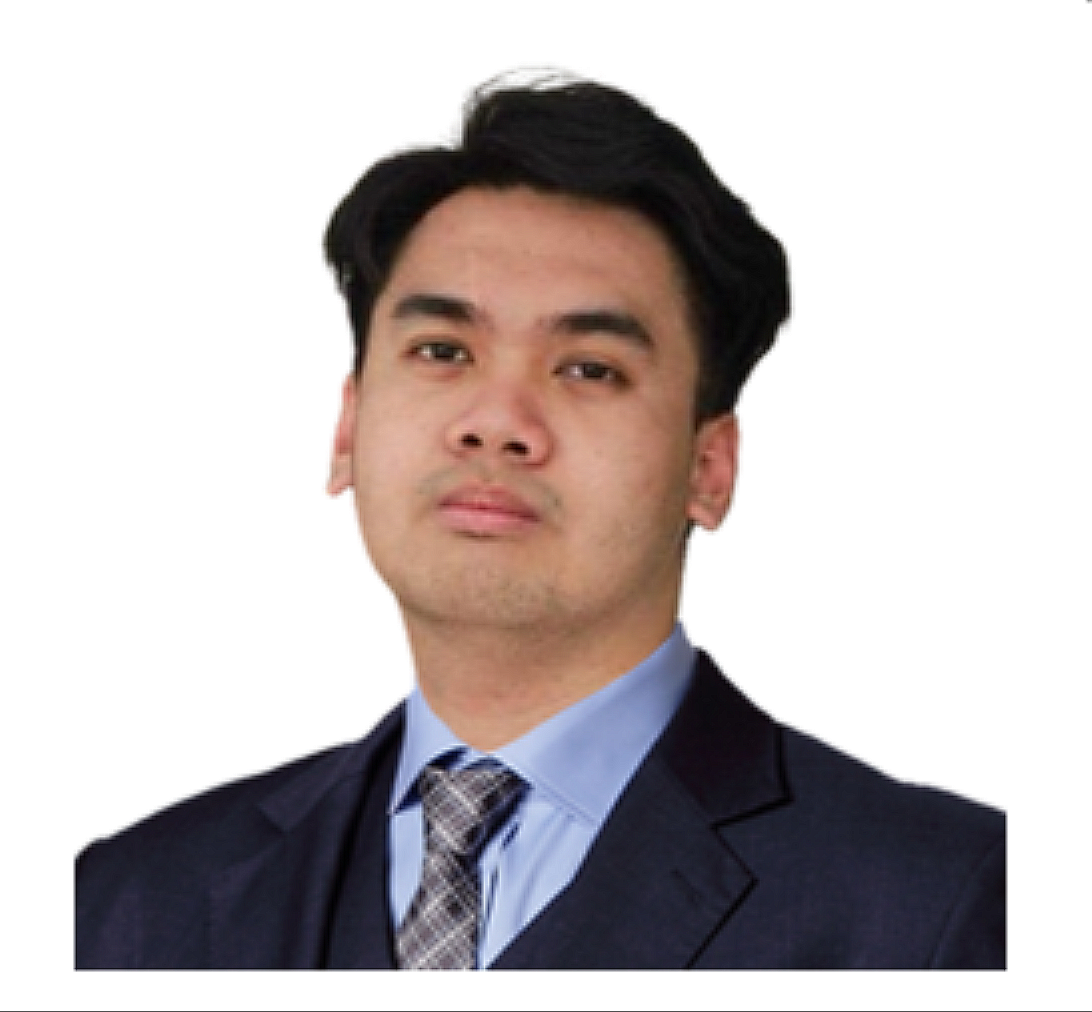
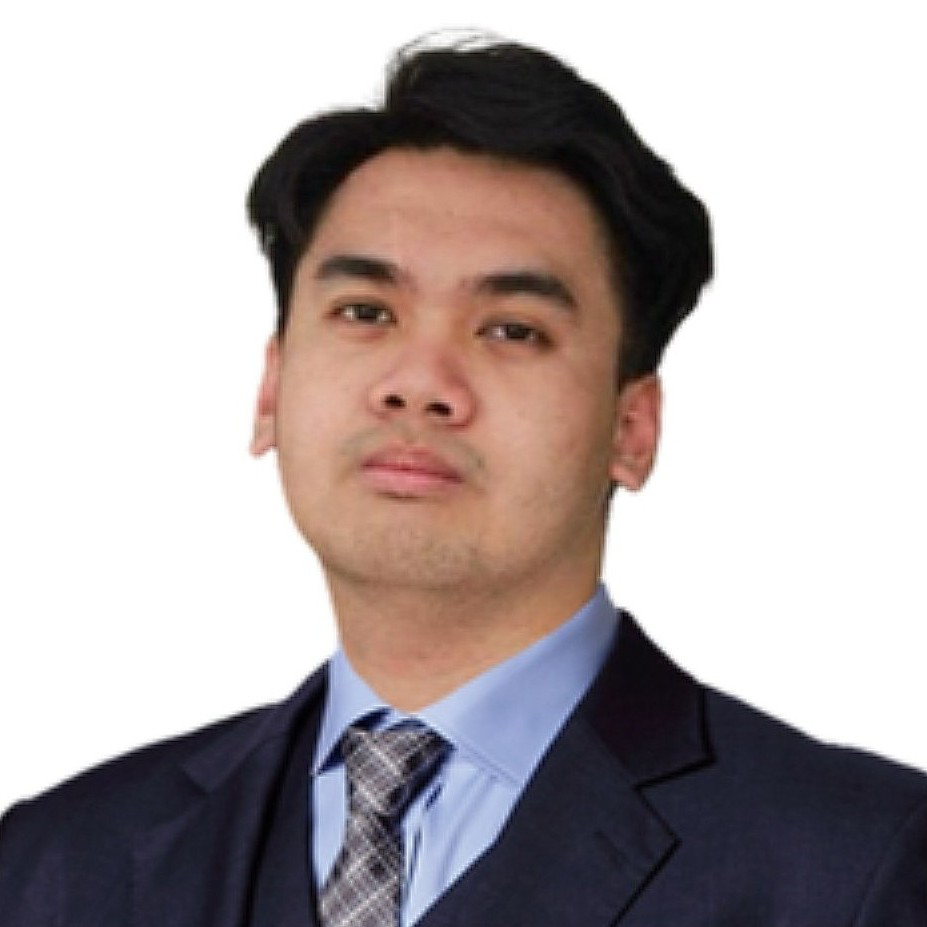
added some animation in image

diff --git a/components/navbar.tsx b/components/navbar.tsx
@@ -78,19 +78,20 @@ export default function Navbar() {
         >
           <div className="relative inline-block">
             <div className="absolute rounded-md inset-0 bg-customColors-bloodRed dark:bg-customColors-brightTurquoise transition-transform duration-300 group-hover:translate-x-1 group-hover:translate-y-1" />
-            <Link
-              href={"/resume/Bain Cruz Resume.pdf"}
-              target="_blank"
-              rel="noopener noreferrer"
-            >
-              <Button
-                variant="outline"
-                className="relative group border-customColors-bloodRed dark:border-customColors-brightTurquoise text-customColors-bloodRed dark:text-customColors-brightTurquoise bg-customColors-pastelWhite dark:bg-customColors-woodSmoke hover:bg-customColors-pastelWhite dark:hover:bg-customColors-woodSmoke hover:text-customColors-bloodRed dark:hover:text-customColors-brightTurquoise
+
+            <Button
+              variant="outline"
+              className="relative group border-customColors-bloodRed dark:border-customColors-brightTurquoise text-customColors-bloodRed dark:text-customColors-brightTurquoise bg-customColors-pastelWhite dark:bg-customColors-woodSmoke hover:bg-customColors-pastelWhite dark:hover:bg-customColors-woodSmoke hover:text-customColors-bloodRed dark:hover:text-customColors-brightTurquoise
             transition-all duration-300 transform hover:-translate-x-1 hover:-translate-y-1"
+            >
+              <Link
+                href={"/resume/Bain Cruz Resume.pdf"}
+                target="_blank"
+                rel="noopener noreferrer"
               >
                 Resume
-              </Button>
-            </Link>
+              </Link>
+            </Button>
           </div>
         </motion.div>
       </nav>
@@ -130,19 +131,20 @@ export default function Navbar() {
               ))}
               <div className="relative inline-block text-lg mt-6 w-full">
                 <div className="absolute h-12 rounded-md inset-0 bg-customColors-bloodRed dark:bg-customColors-brightTurquoise transition-transform duration-300 group-hover:translate-x-1 group-hover:translate-y-1" />
-                <Link
-                  href={"/resume/Bain Cruz Resume.pdf"}
-                  target="_blank"
-                  rel="noopener noreferrer"
-                >
-                  <Button
-                    variant="outline"
-                    className="relative h-12 w-full group border-customColors-bloodRed dark:border-customColors-brightTurquoise text-customColors-bloodRed dark:text-customColors-brightTurquoise bg-customColors-pastelWhite dark:bg-customColors-woodSmoke hover:bg-customColors-pastelWhite dark:hover:bg-customColors-woodSmoke hover:text-customColors-bloodRed dark:hover:text-customColors-brightTurquoise
+
+                <Button
+                  variant="outline"
+                  className="relative h-12 w-full group border-customColors-bloodRed dark:border-customColors-brightTurquoise text-customColors-bloodRed dark:text-customColors-brightTurquoise bg-customColors-pastelWhite dark:bg-customColors-woodSmoke hover:bg-customColors-pastelWhite dark:hover:bg-customColors-woodSmoke hover:text-customColors-bloodRed dark:hover:text-customColors-brightTurquoise
             transition-all duration-300 transform hover:-translate-x-1 hover:-translate-y-1"
+                >
+                  <Link
+                    href={"/resume/Bain Cruz Resume.pdf"}
+                    target="_blank"
+                    rel="noopener noreferrer"
                   >
                     Resume
-                  </Button>
-                </Link>
+                  </Link>
+                </Button>
               </div>
             </div>
           </SheetContent>

diff --git a/components/ui/button.tsx b/components/ui/button.tsx
@@ -1,8 +1,8 @@
-import * as React from "react"
-import { Slot } from "@radix-ui/react-slot"
-import { cva, type VariantProps } from "class-variance-authority"
+import * as React from "react";
+import { Slot } from "@radix-ui/react-slot";
+import { cva, type VariantProps } from "class-variance-authority";
 
-import { cn } from "@/lib/utils"
+import { cn } from "@/lib/utils";
 
 const buttonVariants = cva(
   "inline-flex items-center justify-center gap-2 whitespace-nowrap rounded-md text-sm font-medium transition-colors focus-visible:outline-none focus-visible:ring-1 focus-visible:ring-ring disabled:pointer-events-none disabled:opacity-50 [&_svg]:pointer-events-none [&_svg]:size-4 [&_svg]:shrink-0",
@@ -32,26 +32,26 @@ const buttonVariants = cva(
       size: "default",
     },
   }
-)
+);
 
 export interface ButtonProps
   extends React.ButtonHTMLAttributes<HTMLButtonElement>,
     VariantProps<typeof buttonVariants> {
-  asChild?: boolean
+  asChild?: boolean;
 }
 
 const Button = React.forwardRef<HTMLButtonElement, ButtonProps>(
   ({ className, variant, size, asChild = false, ...props }, ref) => {
-    const Comp = asChild ? Slot : "button"
+    const Comp = asChild ? Slot : "button";
     return (
       <Comp
         className={cn(buttonVariants({ variant, size, className }))}
         ref={ref}
         {...props}
       />
-    )
+    );
   }
-)
-Button.displayName = "Button"
+);
+Button.displayName = "Button";
 
-export { Button, buttonVariants }
+export { Button, buttonVariants };

diff --git a/components/section1.tsx b/components/section1.tsx
@@ -100,17 +100,22 @@ export default function Section1() {
             </div>
           </motion.div>
         </div>
-
         <motion.div
           variants={itemVariants}
-          className="relative w-64 h-64 sm:w-80 sm:h-80 sm:mt-20 self-center sm:self-start"
+          className="relative inline-block group self-center sm:self-auto"
         >
-          <Image
-            src="/bain/Cruz, Bain Hansly.png"
-            alt="Bain Hansly Cruz"
-            fill
-            className="object-cover rounded-lg"
-          />
+          <div className="relative w-64 h-64 sm:w-80 sm:h-80 sm:mt-20 rounded-lg">
+            <div className="relative w-full h-full z-10 transition-all duration-300 group-hover:-translate-x-1 group-hover:-translate-y-1">
+              <Image
+                src="/bain/Cruz, Bain Hansly.png"
+                alt="Bain Hansly Cruz"
+                fill
+                className="rounded-lg transition-all duration-300 group-hover:filter-none group-hover:mix-blend-normal"
+              />
+            </div>
+            <div className="absolute inset-0 bg-customColors-navy mix-blend-screen rounded-lg"></div>
+            <div className="absolute top-3.5 left-3.5 w-full h-full border-2 z-0 border-customColors-bloodRed dark:border-customColors-brightTurquoise rounded-lg transition-all duration-300 group-hover:translate-x-2 group-hover:translate-y-2"></div>
+          </div>
         </motion.div>
       </motion.div>
     </section>

diff --git a/app/globals.css b/app/globals.css
@@ -149,6 +149,7 @@ html {
 .hexagon-wrapper::before {
   content: "";
   position: absolute;
+  margin-top: auto;
   top: -4px;
   left: -4px;
   clip-path: polygon(50% 0%, 100% 25%, 100% 75%, 50% 100%, 0% 75%, 0% 25%);
@@ -168,4 +169,11 @@ html {
   .hexagon-wrapper::before {
     border: 20px solid hsl(var(--hexagon-border-color));
   }
+}
+
+.group:hover .relative.w-full.h-full {
+  transform: translate(-4px, -4px);
+}
+.group:hover .absolute.top-3 {
+  transform: translate(8px, 8px);
 }

diff --git a/components/section3.tsx b/components/section3.tsx
@@ -71,7 +71,9 @@ export default function Section3() {
                       transition-all duration-300 transform hover:-translate-x-1 hover:-translate-y-1"
               asChild
             >
-              <Link href="mailto:cruzbainhansly@gmail.com">Say Hello</Link>
+              <Link href="mailto:cruzbainhansly@gmail.com">
+                <span className="mt-1">Say Hello</span>
+              </Link>
             </Button>
           </div>
         </motion.div>
